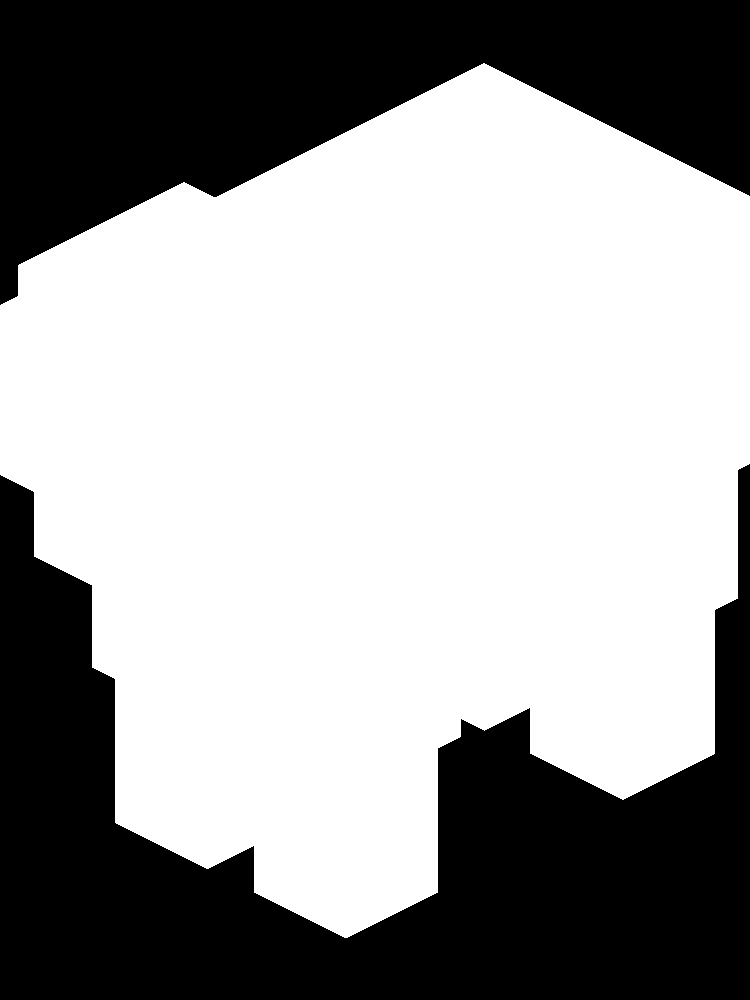
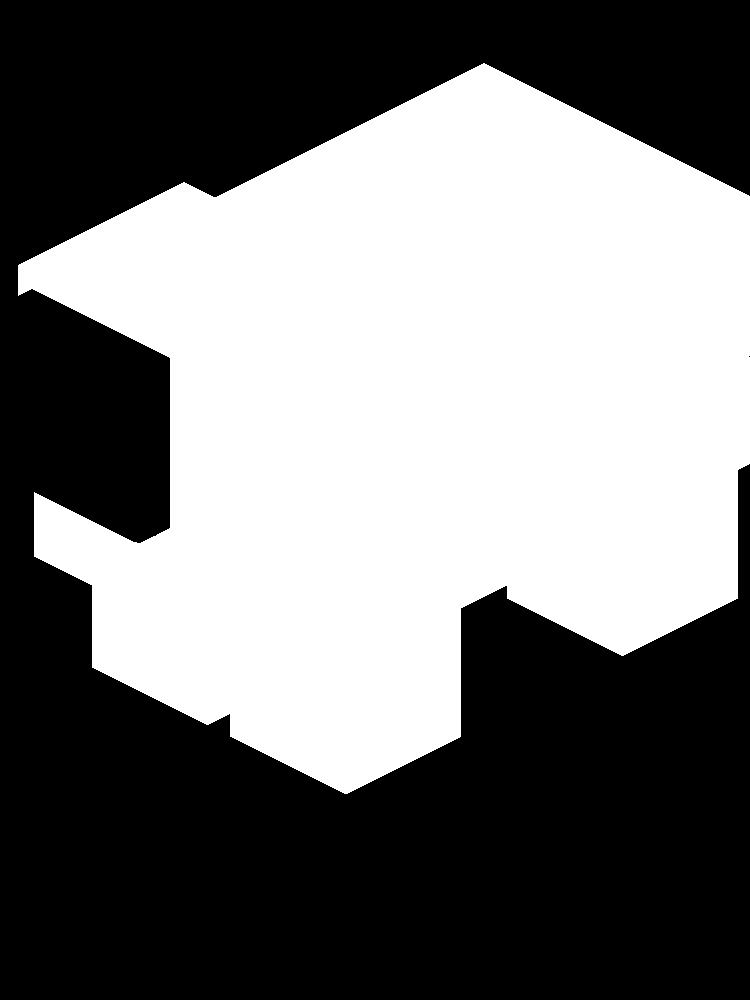
Use two images for colored sheep creation instead of three

Changed region(s): [[0.1533, 0.682, 0.5827, 0.961], [0.6133, 0.589, 0.9507, 0.806], [0.0, 0.279, 0.2453, 0.558]]

diff --git a/index.js b/index.js
@@ -80,8 +80,7 @@ async function createSheepImage(color) {
 		var c = color.toRgb();
 		var img;
 		var sheep = await jimp.read(path.join(__dirname,'sheep.png'));
-		var head = await jimp.read(path.join(__dirname,'sheep_head.png'));
-		var mask = await jimp.read(path.join(__dirname,'mask.png'));
+		var mask = await jimp.read(path.join(__dirname,'mask2.png'));
 		new jimp(750,1000,color.toHex(),(err,image)=>{
 			if(err){
 				console.log(err);
@@ -93,7 +92,6 @@ async function createSheepImage(color) {
 				  opacitySource: .9,
 				  opacityDest: 1
 				});
-				sheep.composite(head, 0, 0);
 				sheep.getBuffer(jimp.MIME_PNG,(err,data)=>{
 					res(data);
 				})
